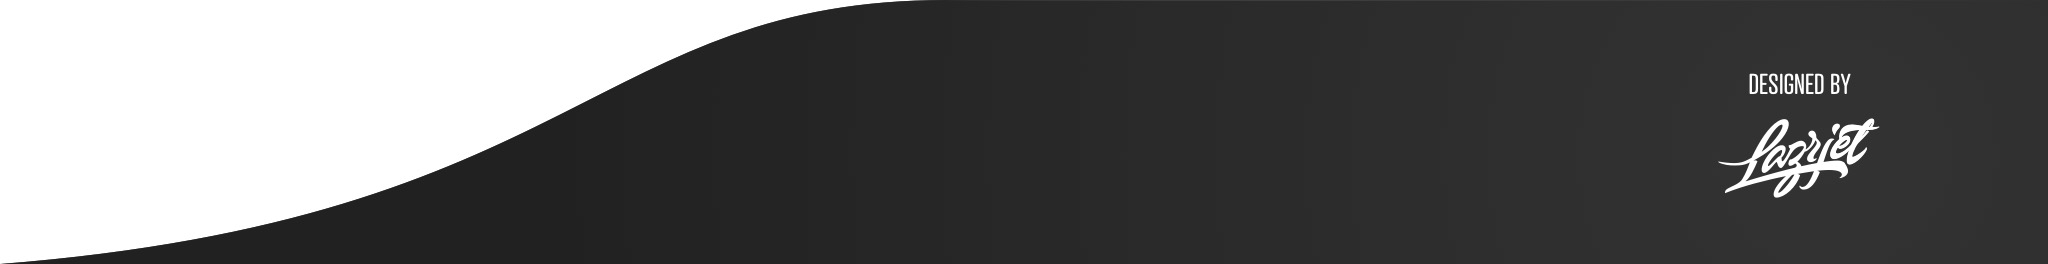
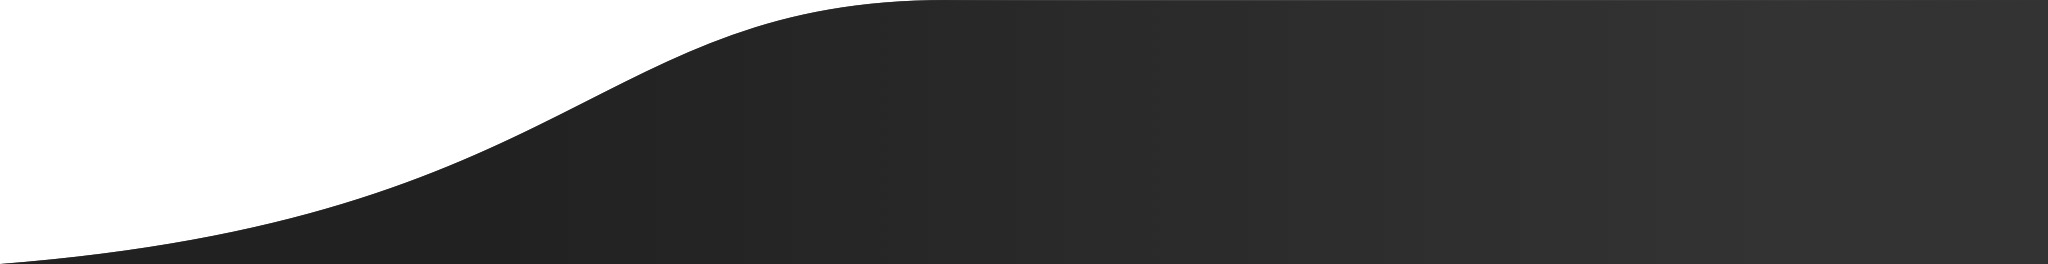
Add footer and fixes for dotted column separator and nav active state

Changed region(s): [[0.8438, 0.4545, 0.9375, 0.7576], [0.8438, 0.2727, 0.9062, 0.3636]]

diff --git a/css/styles.css b/css/styles.css
@@ -17,12 +17,19 @@ body, .navbar-light {
 #primary-column {
 
 	padding-right: 40px;
+	padding-top: 60px;
 	/* background-color: green; */
-	border-right: 1px dotted grey;
+	/* border-right: 1px dotted grey;*/
+
+	background-image: linear-gradient(#171717 10%, rgba(255,255,255,0) 0%);
+	background-position: right;
+	background-size: 1px 8px;
+	background-repeat: repeat-y;
 }
 
 #sidebar {
-
+	padding-top: 0px;
+	padding-left: 40px;
 }
 
 h1 {
@@ -83,13 +90,23 @@ nav .nav-item
 	padding-bottom: 30px;
 }
 
-.navbar .nav-link.selected
+.navbar .nav-link.active
 {
 	border-bottom: 2px solid #D20298;
 }
 
 #footer {
-	margin-top: 100px;
-	background-image: url("../img/footer@2x.jpg");
-	height: 132px;
+	margin-top: 200px;
+	background: #333333 url("../img/footer@2x.jpg") bottom left no-repeat;
+	background-size: 1024px 132px;
+	width: 100%;
+	height:132px;
+
+}
+
+.shadow {
+	-moz-box-shadow: 0px 2px 32px 11px #e0e0e0; 
+	-webkit-box-shadow: 0px 2px 32px 11px #e0e0e0; 
+	box-shadow: 0px 2px 32px 11px #e0e0e0; 
+	/* Alas, box-shadow is not fully supported by IE < 9 */
 }

diff --git a/index.html b/index.html
@@ -12,8 +12,8 @@ title: Lazrjet
   </a>
   <div class="collapse navbar-collapse justify-content-end" id="navbarNav">
     <ul class="navbar-nav">
-      <li class="nav-item active">
-        <a class="nav-link selected" href="#">Blog <span class="sr-only">(current)</span></a>
+      <li class="nav-item">
+        <a class="nav-link active" href="#">Blog <span class="sr-only">(current)</span></a>
       </li>
       <li class="nav-item">
         <a class="nav-link" href="#">Music</a>
@@ -54,8 +54,8 @@ title: Lazrjet
 
 		<div class="col-sm-4" id="sidebar">
 		
-			<img src="{{ site.baseurl }}/img/avatar@2x.png" height="360" width="354"/>
-
+			<!-- <img src="{{ site.baseurl }}/img/avatar-no-shadow@2x.png" height="360" width="354"/> -->
+				<img src="{{ site.baseurl }}/img/avatar-no-shadow@2x.png" height="274" width="310"/>
 		</div>
 	</div> <!-- /row -->
 

diff --git a/_includes/footer.html b/_includes/footer.html
@@ -1,5 +1,5 @@
 
-	<div id="footer">blah</div>
+	<div id="footer"></div>
 	<script src="{{ site.baseurl }}/bower_components/jquery/dist/jquery.min.js"></script>
 	<script src="{{ site.baseurl }}/bower_components/tether/dist/js/tether.min.js"></script>
 	<script src="{{ site.baseurl }}/bower_components/bootstrap/dist/js/bootstrap.min.js"></script>
